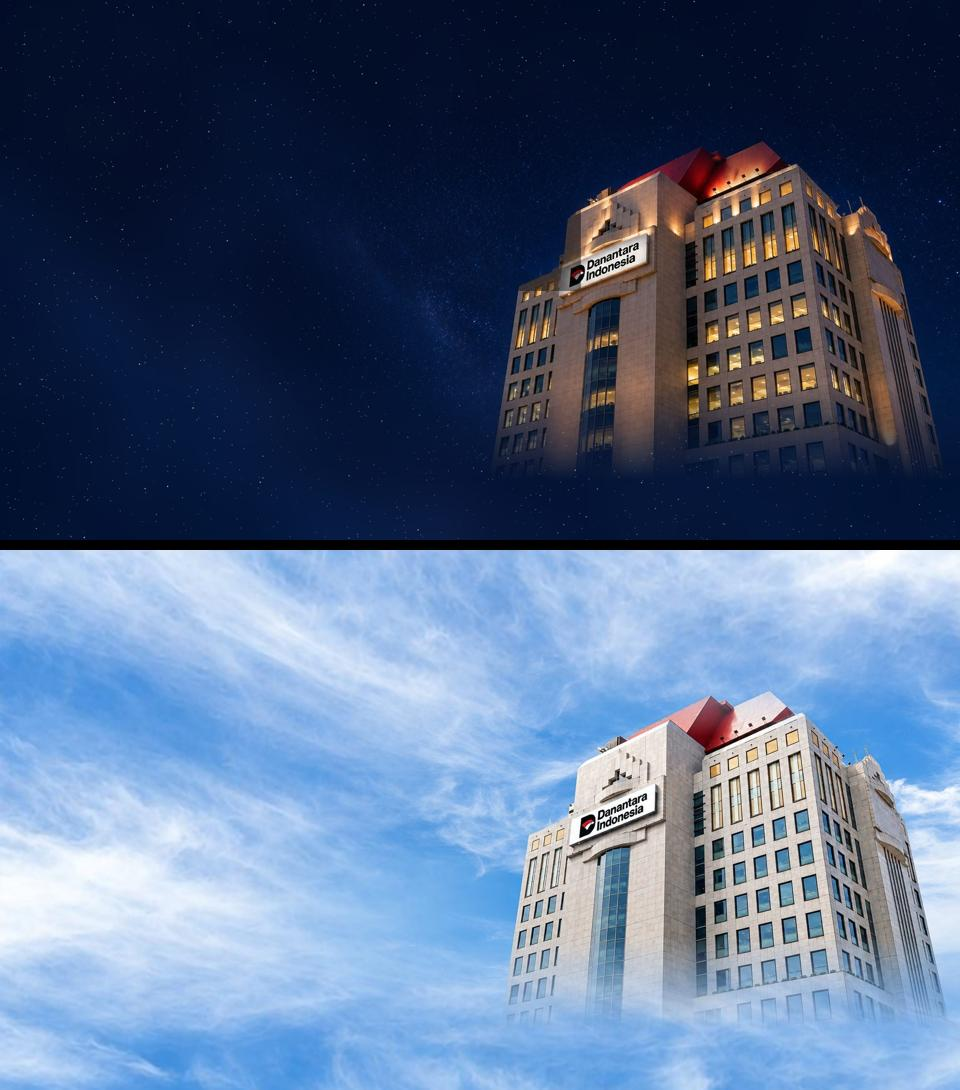
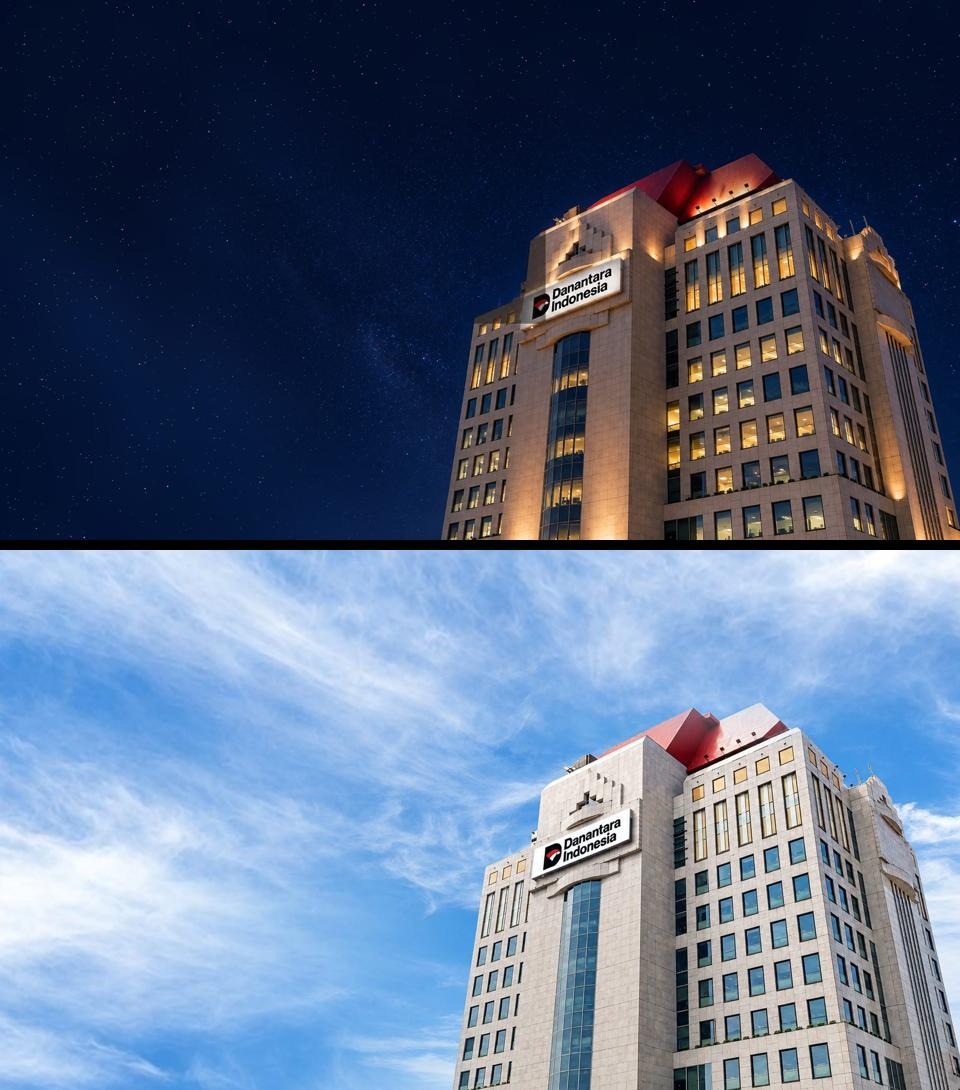
v0.18

Changed region(s): [[0.2188, 0.5927, 1.0, 1.0], [0.4375, 0.1248, 1.0, 0.4991], [0.375, 0.3119, 0.4062, 0.3431]]

diff --git a/donyoskaria/console.js b/donyoskaria/console.js
@@ -40,10 +40,13 @@
     const feedSrc = (feedPf === 'Semua' ? D : D.filter(r => r.platform === feedPf)).slice().sort((a, b) => (b.km || 0) - (a.km || 0) || (b.lk || 0) - (a.lk || 0) || (b.sh || 0) - (a.sh || 0)).slice(0, 8);
     const snC = s => s === 'negatif' ? 'neg' : s === 'positif' ? 'pos' : 'net';
     // peringatan dini: pulau dengan negatif tinggi / lonjakan
-    const warn = isl.slice(0, 6).map(([kk, v]) => { const R = D.filter(r => r.lokasi === kk), n = R.filter(r => r.sent === 'negatif').length, np = n / v * 100, d = delta(islL[kk] || 0, islP[kk] || 0);
-      const lv = np >= 60 || (d != null && d >= 100) ? ['hi', 'Tinggi'] : np >= 45 || (d != null && d >= 30) ? ['md', 'Sedang'] : ['lo', 'Rendah'];
-      const topT = cnt(R.filter(r => r.sent === 'negatif' && r.topik !== 'Lainnya'), 'topik')[0]?.[0] || 'percakapan meningkat';
-      return { kk, v, np, d, lv, topT }; }).sort((a, b) => (b.lv[0] === 'hi') - (a.lv[0] === 'hi') || b.np - a.np);
+    // Radar Risiko per Isu: skor = % negatif + lonjakan volume vs periode sebelumnya
+    const tpL = Object.fromEntries(cnt(L, 'topik')), tpP = Object.fromEntries(cnt(Pv, 'topik'));
+    const warn = cnt(D.filter(r => r.topik && r.topik !== 'Lainnya'), 'topik').map(([kk, v]) => { const R = D.filter(r => r.topik === kk), n = R.filter(r => r.sent === 'negatif').length, np = n / v * 100, d = delta(tpL[kk] || 0, tpP[kk] || 0);
+      const lv = (np >= 40 && v >= 10) || (np >= 25 && d != null && d >= 100) ? ['hi', 'Tinggi'] : np >= 20 || (d != null && d >= 50) ? ['md', 'Sedang'] : ['lo', 'Rendah'];
+      const em = cnt(R.filter(r => r.emosi && !/^netral$/i.test(r.emosi)), 'emosi')[0]?.[0];
+      const topT = `${f(v)} postingan${em ? ' · emosi dominan ' + em.toLowerCase() : ''}`;
+      return { kk, v, np, d, lv, topT }; }).sort((a, b) => ({ hi: 0, md: 1, lo: 2 }[a.lv[0]] - { hi: 0, md: 1, lo: 2 }[b.lv[0]]) || b.np * b.v - a.np * a.v);
     const nHigh = warn.filter(w => w.lv[0] === 'hi').length;
     // ---- Insight otomatis (3–4 poin, semua berbasis angka) ----
     const ins = [];
@@ -116,8 +119,8 @@
           <div class="g-feed-tabs">${['Semua', ...plat.map(p => p[0])].map(p => `<button type="button" data-pf="${esc(p)}" class="${feedPf === p ? 'on' : ''}">${esc(p)}</button>`).join('')}</div></div>
           <div class="g-feed">${feedSrc.map(r => `<div class="g-post"><div class="top">${pfIco(r.platform, 13)}<span>${tg(r.tgl)}${r.jamStr ? ' · ' + r.jamStr : ''}</span><span class="sn ${snC(r.sent)}">${esc(r.sent)}</span></div>
             <p>${esc(r.text.slice(0, 220))}</p><div class="g-eng"><span title="Likes/Reaksi">${ic('heart', 12, 2)}${k(r.lk || 0)}</span><span title="Komentar">${ic('chat', 12, 2)}${k(r.km || 0)}</span><span title="Share/Repost">${ic('ext', 12, 2)}${k(r.sh || 0)}</span></div><div class="ft"><span class="who">${esc(akun(r))}</span>${r.link ? `<a href="${esc(r.link)}" target="_blank" rel="noopener">Buka ${ic('ext', 12)}</a>` : ''}</div></div>`).join('') || '<p class="hint">Tidak ada postingan</p>'}</div></div>
-        <div class="g-card"><div class="g-h"><h3>Peringatan Dini</h3><span class="g-lv hi">Tinggi (${nHigh})</span></div>
-          <ul class="g-warn">${warn.slice(0, 4).map(w => `<li><span class="wi g-lv ${w.lv[0]}">${ic('alert', 18)}</span><div><b>${esc(w.kk)}</b><small>${esc(w.topT)} · ${pc(w.np, 100, 0)} negatif${w.d != null ? ` · ${w.d >= 0 ? '+' : ''}${w.d}%` : ''}</small></div><span class="g-lv ${w.lv[0]}">${ic('alert', 12, 2)}${w.lv[1]}</span></li>`).join('')}</ul></div>
+        <div class="g-card"><div class="g-h"><h3>Radar Risiko per Isu</h3><span class="g-lv hi">Tinggi (${nHigh})</span></div>
+          <ul class="g-warn">${warn.slice(0, 6).map(w => `<li><span class="wi g-lv ${w.lv[0]}">${ic('alert', 18)}</span><div><b>${esc(w.kk)}</b><small>${esc(w.topT)} · ${pc(w.np, 100, 0)} negatif${w.d != null ? ` · ${w.d >= 0 ? '+' : ''}${w.d}%` : ''}</small></div><span class="g-lv ${w.lv[0]}">${ic('alert', 12, 2)}${w.lv[1]}</span></li>`).join('')}</ul></div>
       </div>`;
 
     // peta foto bumi + pin data

diff --git a/donyoskaria/index.html b/donyoskaria/index.html
@@ -66,13 +66,13 @@
 <script src="loader.js?v=98"></script>
 <script>(function(){var done=false,fin=function(){if(done)return;done=true;try{GarudaLoader.complete()}catch(e){}};addEventListener("lok:update",fin,{once:true});setTimeout(function(){var l=document.getElementById("loading");if(l&&/Gagal/.test(l.textContent))fin()},4000);setTimeout(fin,20000);})();</script>
 
-<div id="heroBg" aria-hidden="true"><img class="hb-d" src="hero-dark.jpg?v=2" srcset="hero-dark-sm.jpg?v=2 1280w, hero-dark.jpg?v=2 2560w" sizes="100vw" alt="" fetchpriority="high" decoding="async"><img class="hb-l" src="hero-light.jpg?v=2" srcset="hero-light-sm.jpg?v=2 1280w, hero-light.jpg?v=2 2560w" sizes="100vw" alt="" decoding="async"></div>
+<div id="heroBg" aria-hidden="true"><img class="hb-d" src="hero-dark.jpg?v=3" srcset="hero-dark-sm.jpg?v=3 1280w, hero-dark.jpg?v=3 2560w" sizes="100vw" alt="" fetchpriority="high" decoding="async"><img class="hb-l" src="hero-light.jpg?v=3" srcset="hero-light-sm.jpg?v=3 1280w, hero-light.jpg?v=3 2560w" sizes="100vw" alt="" decoding="async"></div>
 <header class="topbar">
   <div class="brand">
     <img class="logo logo-dark" src="logo-dark.png?v=73" alt="Logo">
     <img class="logo logo-light" src="logo-light.png?v=73" alt="Logo">
     <span class="divider"></span>
-    <span class="brand-t"><b>Garuda Labs</b><small>Intelligent Media Monitoring</small></span><span class="beta" title="Versi 0.16 · diperbarui 30 Okt 2026">Beta<i class="ver">v0.16</i></span>
+    <span class="brand-t"><b>Garuda Labs</b><small>Intelligent Media Monitoring</small></span><span class="beta" title="Versi 0.18 · diperbarui 30 Okt 2026">Beta<i class="ver">v0.18</i></span>
   </div>
   <div class="top-r">
       <div class="dr">
@@ -221,7 +221,7 @@
 <script src="map.js?v=73"></script>
 <script src="core.js?v=101"></script>
 <script src="analitik.js?v=84"></script>
-<script src="console.js?v=97"></script>
+<script src="console.js?v=98"></script>
 <script src="narasi.js?v=102"></script>
 <script src="fx.js?v=100"></script>
 <script src="chat.js?v=73"></script>
